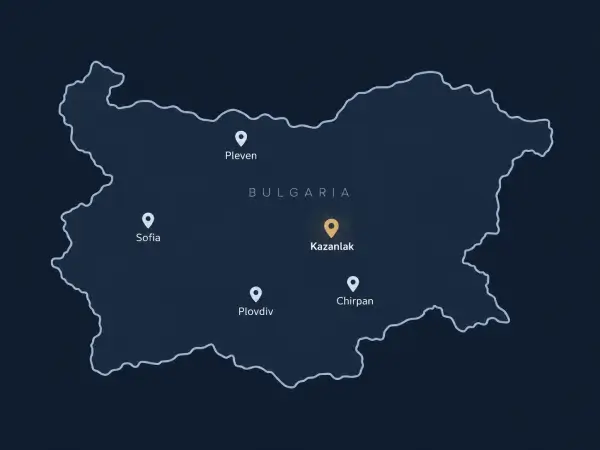
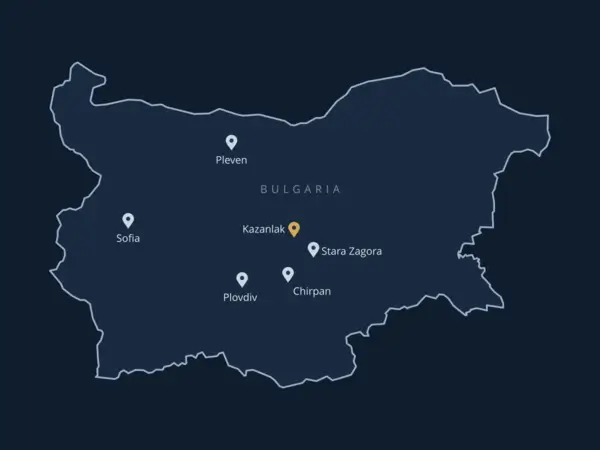
change 12grada 6 obekta

diff --git a/src/sections/PartnerLogos.tsx b/src/sections/PartnerLogos.tsx
@@ -1,0 +1,89 @@
+/**
+ * PartnerLogos — безкрайна, бавно движеща се лента с логата на партньорите.
+ *
+ * Нов партньор се добавя САМО тук, с един ред в масива `logos`.
+ * Използва се в TrustHero.tsx и TrustBadges.tsx.
+ *
+ * - Логата се дублират два пъти в лентата, за да няма "скок" при зацикляне.
+ * - Спира при hover (за да може човек да разгледа логото).
+ * - При prefers-reduced-motion лентата не се движи.
+ */
+
+type Logo = {
+  src: string;
+  alt: string;
+  /** ширина: телефон / компютър */
+  sizeClasses: string;
+};
+
+const logos: Logo[] = [
+  { src: '/logo/Natural1.webp',    alt: '100% Натурално',          sizeClasses: 'w-20 sm:w-28' },
+  { src: '/logo/botanical.webp',   alt: 'Ботаникъл',               sizeClasses: 'w-28 sm:w-40' },
+  { src: '/logo/BioExperts3.webp', alt: 'Bio Experts',             sizeClasses: 'w-16 sm:w-24' },
+  { src: '/logo/NovaFarm.webp',    alt: 'NovaFarm',                sizeClasses: 'w-20 sm:w-28' },
+  { src: '/logo/Апостолов4.webp',  alt: 'Аптеки Апостолов',        sizeClasses: 'w-20 sm:w-28' },
+  { src: '/logo/Bulgaria8.webp',   alt: 'Произведени в България',  sizeClasses: 'w-16 sm:w-24' },
+  { src: '/logo/Novedes.png',      alt: 'Аптеки Новедес',          sizeClasses: 'w-20 sm:w-28' },
+  { src: '/logo/Eliksir.webp',     alt: 'Билков магазин Еликсир',  sizeClasses: 'w-20 sm:w-28' },
+  { src: '/logo/novaf.webp',       alt: 'Nova Farm Пловдив',       sizeClasses: 'w-28 sm:w-40' },
+  { src: '/logo/Amaya.webp',       alt: 'Amaya Organics',          sizeClasses: 'w-28 sm:w-40' },
+  { src: '/logo/tkpharm.webp',     alt: 'TK Pharm',                sizeClasses: 'w-40 sm:w-40' },
+  // ---- нов партньор -> добави ред тук ----
+];
+
+/** Скорост: секунди за едно пълно превъртане. По-голямо число = по-бавно. */
+const SECONDS_PER_LOOP = 45;
+
+export default function PartnerLogos({ className = '' }: { className?: string }) {
+  // Два пъти един и същ списък -> безкрайна лента без прекъсване
+  const track = [...logos, ...logos];
+
+  return (
+    <div
+      className={`logo-marquee relative w-full overflow-hidden ${className}`}
+      aria-label="Партньори, които ни се доверяват"
+    >
+      {/* CSS за движението — държи се тук, за да не се пипа App.css */}
+      <style>{`
+        @keyframes logo-marquee-scroll {
+          from { transform: translateX(0); }
+          to   { transform: translateX(-50%); }
+        }
+        .logo-marquee__track {
+          animation: logo-marquee-scroll ${SECONDS_PER_LOOP}s linear infinite;
+        }
+        .logo-marquee:hover .logo-marquee__track {
+          animation-play-state: paused;
+        }
+        @media (prefers-reduced-motion: reduce) {
+          .logo-marquee__track { animation: none; }
+        }
+      `}</style>
+
+      {/* Меко избледняване в краищата на лентата */}
+      <div className="pointer-events-none absolute inset-y-0 left-0 w-10 sm:w-20 bg-gradient-to-r from-slate-50 to-transparent z-10" />
+      <div className="pointer-events-none absolute inset-y-0 right-0 w-10 sm:w-20 bg-gradient-to-l from-slate-50 to-transparent z-10" />
+
+      <div className="logo-marquee__track flex w-max items-center">
+        {track.map((logo, index) => (
+          <div
+            key={index}
+            aria-hidden={index >= logos.length ? true : undefined}
+            className="flex h-20 sm:h-28 items-center justify-center shrink-0 px-3 sm:px-5 transition-transform duration-300 hover:scale-105"
+          >
+            <img
+              src={logo.src}
+              alt={index >= logos.length ? '' : logo.alt}
+              loading="lazy"
+              draggable={false}
+              className={`${logo.sizeClasses} h-full object-contain`}
+              onError={(e) => {
+                (e.target as HTMLImageElement).style.display = 'none';
+              }}
+            />
+          </div>
+        ))}
+      </div>
+    </div>
+  );
+}

diff --git a/src/sections/TrustBadges.tsx b/src/sections/TrustBadges.tsx
@@ -1,49 +1,12 @@
-export default function TrustBadges() {
-  // Реда в масива определя позицията: първите 5 са на горния ред,
-  // следващите слизат автоматично на долния (центрирани).
-  const logos = [
-    { src: '/logo/Natural1.webp',    alt: '100% Натурално',          sizeClasses: 'w-full sm:w-28' },
-    { src: '/logo/botanical.webp',   alt: 'Ботаникъл',               sizeClasses: 'w-full sm:w-40' },
-    { src: '/logo/BioExperts3.webp', alt: 'Bio Experts',             sizeClasses: 'w-full sm:w-24' },
-    { src: '/logo/NovaFarm.webp',    alt: 'NovaFarm',                sizeClasses: 'w-full sm:w-28' },
-    { src: '/logo/Апостолов4.webp',  alt: 'Аптеки Апостолов',        sizeClasses: 'w-full sm:w-28' },
-    // ---- от тук надолу -> втори ред ----
-    { src: '/logo/Bulgaria8.webp',   alt: 'Произведени в България',  sizeClasses: 'w-full sm:w-24' },
-    { src: '/logo/Novedes.png',      alt: 'Аптеки Новедес',          sizeClasses: 'w-full sm:w-28' },
-    { src: '/logo/Eliksir.webp',     alt: 'Билков магазин Еликсир',  sizeClasses: 'w-full sm:w-28' },
-    { src: '/logo/novaf.webp',       alt: 'Nova Farm Пловдив',       sizeClasses: 'w-full sm:w-40' },
-    { src: '/logo/Amaya.webp',       alt: 'Amaya Organics',          sizeClasses: 'w-full sm:w-40' },
-  ];
+import PartnerLogos from './PartnerLogos';
 
+export default function TrustBadges() {
   return (
     <section className="bg-slate-50 py-12 px-4 sm:px-6 lg:px-8">
       <div className="max-w-5xl mx-auto">
 
-        {/*
-          flex-wrap      -> 6-тото лого слиза автоматично на нов ред
-          justify-center -> непълният долен ред се центрира спрямо горния
-          Ширина на лого = (100% - 4 разстояния) / 5
-            телефон: gap-x-2 (0.5rem) x 4 = 2rem
-            компютър: gap-x-8 (2rem)  x 4 = 8rem
-        */}
-        <div className="flex flex-wrap items-center justify-center gap-x-2 gap-y-1 sm:gap-x-8 sm:gap-y-4 mb-10">
-          {logos.map((logo, index) => (
-            <div
-              key={index}
-              className="basis-[calc((100%-2rem)/5)] sm:basis-[calc((100%-8rem)/5)] shrink-0 grow-0 flex items-center justify-center p-1 transition-transform duration-300 hover:scale-105"
-            >
-              <img
-                src={logo.src}
-                alt={logo.alt}
-                loading="lazy"
-                className={`${logo.sizeClasses} max-w-full h-auto object-contain`}
-                onError={(e) => {
-                  (e.target as HTMLImageElement).style.display = 'none';
-                }}
-              />
-            </div>
-          ))}
-        </div>
+        {/* Лента с логата на партньорите (списъкът е в PartnerLogos.tsx) */}
+        <PartnerLogos className="mb-10" />
 
         {/* Текстово послание */}
         <div className="max-w-4xl mx-auto text-center">

diff --git a/src/sections/TrustHero.tsx b/src/sections/TrustHero.tsx
@@ -1,20 +1,6 @@
-export default function TrustHero() {
-  // Реда в масива определя позицията: първите 5 са на горния ред,
-  // следващите слизат автоматично на долния (центрирани).
-  const logos = [
-    { src: '/logo/Natural1.webp',    alt: '100% Натурално',          sizeClasses: 'w-full sm:w-28' },
-    { src: '/logo/botanical.webp',   alt: 'Ботаникъл',               sizeClasses: 'w-full sm:w-40' },
-    { src: '/logo/BioExperts3.webp', alt: 'Bio Experts',             sizeClasses: 'w-full sm:w-24' },
-    { src: '/logo/NovaFarm.webp',    alt: 'NovaFarm',                sizeClasses: 'w-full sm:w-28' },
-    { src: '/logo/Апостолов4.webp',  alt: 'Аптеки Апостолов',        sizeClasses: 'w-full sm:w-28' },
-    // ---- от тук надолу -> втори ред ----
-    { src: '/logo/Bulgaria8.webp',   alt: 'Произведени в България',  sizeClasses: 'w-full sm:w-24' },
-    { src: '/logo/Novedes.png',      alt: 'Аптеки Новедес',          sizeClasses: 'w-full sm:w-28' },
-    { src: '/logo/Eliksir.webp',     alt: 'Билков магазин Еликсир',  sizeClasses: 'w-full sm:w-28' },
-    { src: '/logo/novaf.webp',       alt: 'Nova Farm Пловдив',       sizeClasses: 'w-full sm:w-40' },
-    { src: '/logo/Amaya.webp',       alt: 'Amaya Organics',          sizeClasses: 'w-full sm:w-40' },
-  ];
+import PartnerLogos from './PartnerLogos';
 
+export default function TrustHero() {
   return (
     <section className="bg-slate-50 py-12 px-4 sm:px-6 lg:px-8">
       <div className="max-w-5xl mx-auto">
@@ -25,31 +11,8 @@ export default function TrustHero() {
           </h4>
         </div>
 
-        {/*
-          flex-wrap      -> 6-тото лого слиза автоматично на нов ред
-          justify-center -> непълният долен ред се центрира спрямо горния
-          Ширина на лого = (100% - 4 разстояния) / 5
-            телефон: gap-x-2 (0.5rem) x 4 = 2rem
-            компютър: gap-x-8 (2rem)  x 4 = 8rem
-        */}
-        <div className="flex flex-wrap items-center justify-center gap-x-2 gap-y-1 sm:gap-x-8 sm:gap-y-6">
-          {logos.map((logo, index) => (
-            <div
-              key={index}
-              className="basis-[calc((100%-2rem)/5)] sm:basis-[calc((100%-8rem)/5)] shrink-0 grow-0 flex items-center justify-center p-1 transition-transform duration-300 hover:scale-105"
-            >
-              <img
-                src={logo.src}
-                alt={logo.alt}
-                loading="lazy"
-                className={`${logo.sizeClasses} max-w-full h-auto object-contain`}
-                onError={(e) => {
-                  (e.target as HTMLImageElement).style.display = 'none';
-                }}
-              />
-            </div>
-          ))}
-        </div>
+        {/* Лента с логата на партньорите (списъкът е в PartnerLogos.tsx) */}
+        <PartnerLogos />
 
       </div>
     </section>

diff --git a/src/sections/PharmacistReview.tsx b/src/sections/PharmacistReview.tsx
@@ -87,11 +87,22 @@ const storeGroups: StoreGroup[] = [
     ],
   },
   {
+    city: 'Стара Загора',
+    count: 1,
+    stores: [
+      {
+        name: 'Аптеки „Такиев“',
+        address: 'бул. „Хан Тервел“ № 48-Б',
+        type: 'Аптека',
+      },
+    ],
+  },
+  {
     city: 'Пловдив',
     count: 2,
     stores: [
       {
-        name: 'Аптека Nova Farm',
+        name: 'Аптеки Nova Farm',
         address: 'Оазис 3, ж.к. Южен, ул. „Братя Шкорпил“ 15Д',
         type: 'Аптека',
       },
@@ -260,18 +271,18 @@ export function PharmacistReview() {
                   <div className="mt-3 flex flex-wrap items-end gap-x-3 gap-y-2 min-w-0">
 
                     <span className="shrink-0 text-3xl sm:text-5xl font-black leading-none text-amber-300">
-                      11
+                      12
                     </span>
 
                     <span className="min-w-0 text-xl sm:text-2xl font-black leading-tight break-words pb-1">
-                      обекта в 5 града
+                      обекта в 6 града
                     </span>
 
                   </div>
 
                   <p className="mt-4 w-full min-w-0 text-sm sm:text-base leading-relaxed text-emerald-100 break-words">
                     <strong className="text-white">
-                      10 обекта са налични сега,
+                      11 обекта са налични сега,
                     </strong>{' '}
                     а новият обект на Аптеки Апостолов в Пловдив се
                     присъединява към мрежата{' '}
@@ -527,7 +538,7 @@ export function PharmacistReview() {
                 </div>
 
                 <p className="mt-2 text-lg sm:text-xl font-black text-white break-words">
-                  11 партньорски обекта • 5 града
+                  12 партньорски обекта • 6 града
                 </p>
 
               </div>

diff --git a/src/sections/FAQ.tsx b/src/sections/FAQ.tsx
@@ -52,7 +52,7 @@ export function FAQ() {
           <span>
             Можете да поръчате Naturino Kids директно от този сайт с доставка до ваш адрес или офис на куриер.
             Продуктът вече се предлага и във физически аптеки, дрогерии и специализирани магазини —{' '}
-            <strong>11 обекта в 5 града.</strong>
+            <strong>12 обекта в 6 града.</strong>
           </span>
 
           <a

diff --git a/src/sections/Hero.tsx b/src/sections/Hero.tsx
@@ -669,7 +669,7 @@ export function Hero() {
               <p className="mt-3 text-base sm:text-lg md:text-xl text-emerald-100 leading-relaxed">
                 Вече можеш да откриеш Naturino Kids и на място — в{' '}
                 <strong className="text-amber-300">
-                  11 физически обекта в 5 града в страната.
+                  12 физически обекта в 6 града в страната.
                 </strong>
               </p>
 
